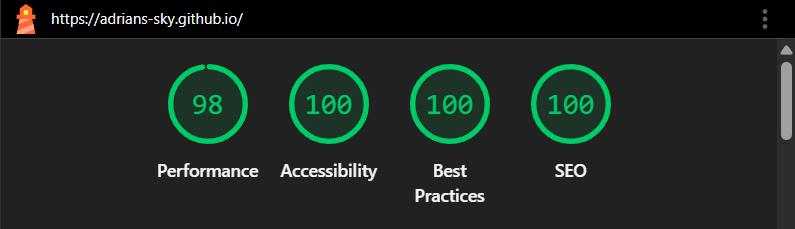
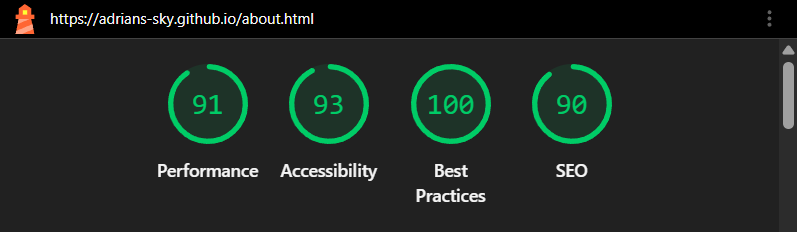
docs: lighthouse report 9-14-2026

diff --git a/README.md b/README.md
@@ -21,7 +21,7 @@ My personal, "not boring" portfolio and personal blog
 
 ![Google Lighthouse Report](public/lighthouse_report.png)
 
-> Generated on December 11, 2025 using Google Chrome.
+> Generated on September 14, 2026 using Google Chrome.
 
 # About
 
